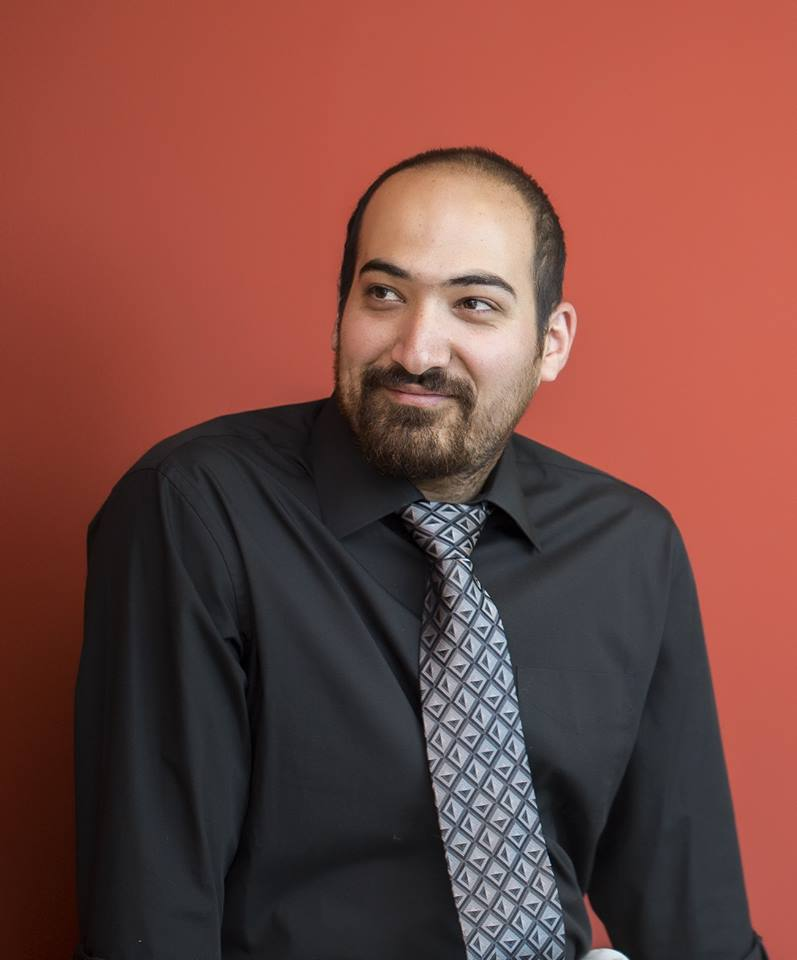
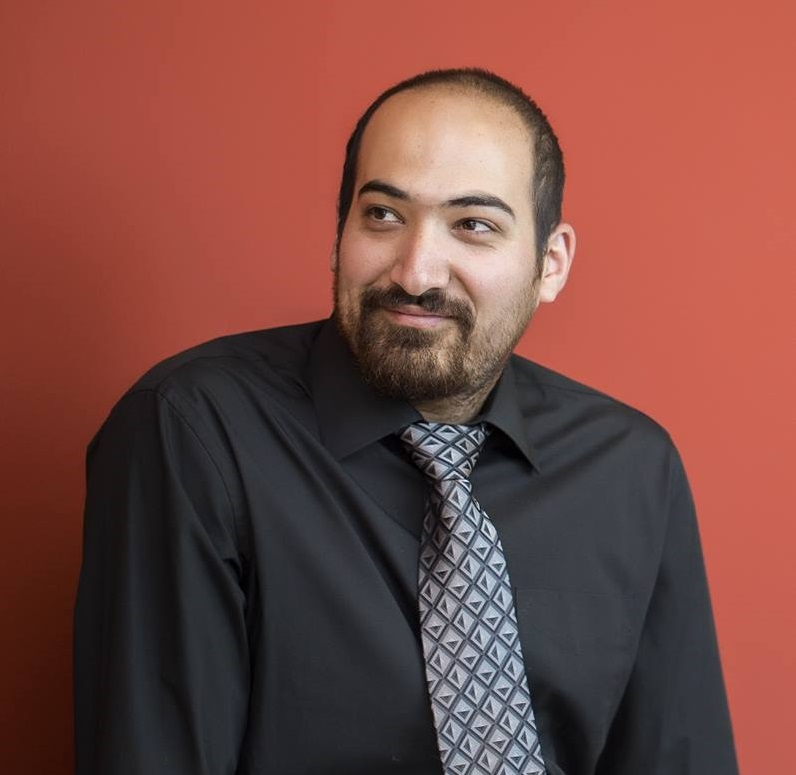
--

diff --git a/Jsfiles/header.js b/Jsfiles/header.js
@@ -17,7 +17,7 @@ st += '				</td>';
 st += '			</tr>';
 st += '		</table>';
 st += '		</td>';
-st += '		<td width="175px;"><img height="163px;" src="imgs/1.JPG" class="niceBox"></td>';
+st += '		<td width="175px;"><img height="163px" src="ppl/abol.jpg" class="niceBox"></td>';
 st += '	</tr>';
 st += '</table>';
 headerDiv.innerHTML = st;
